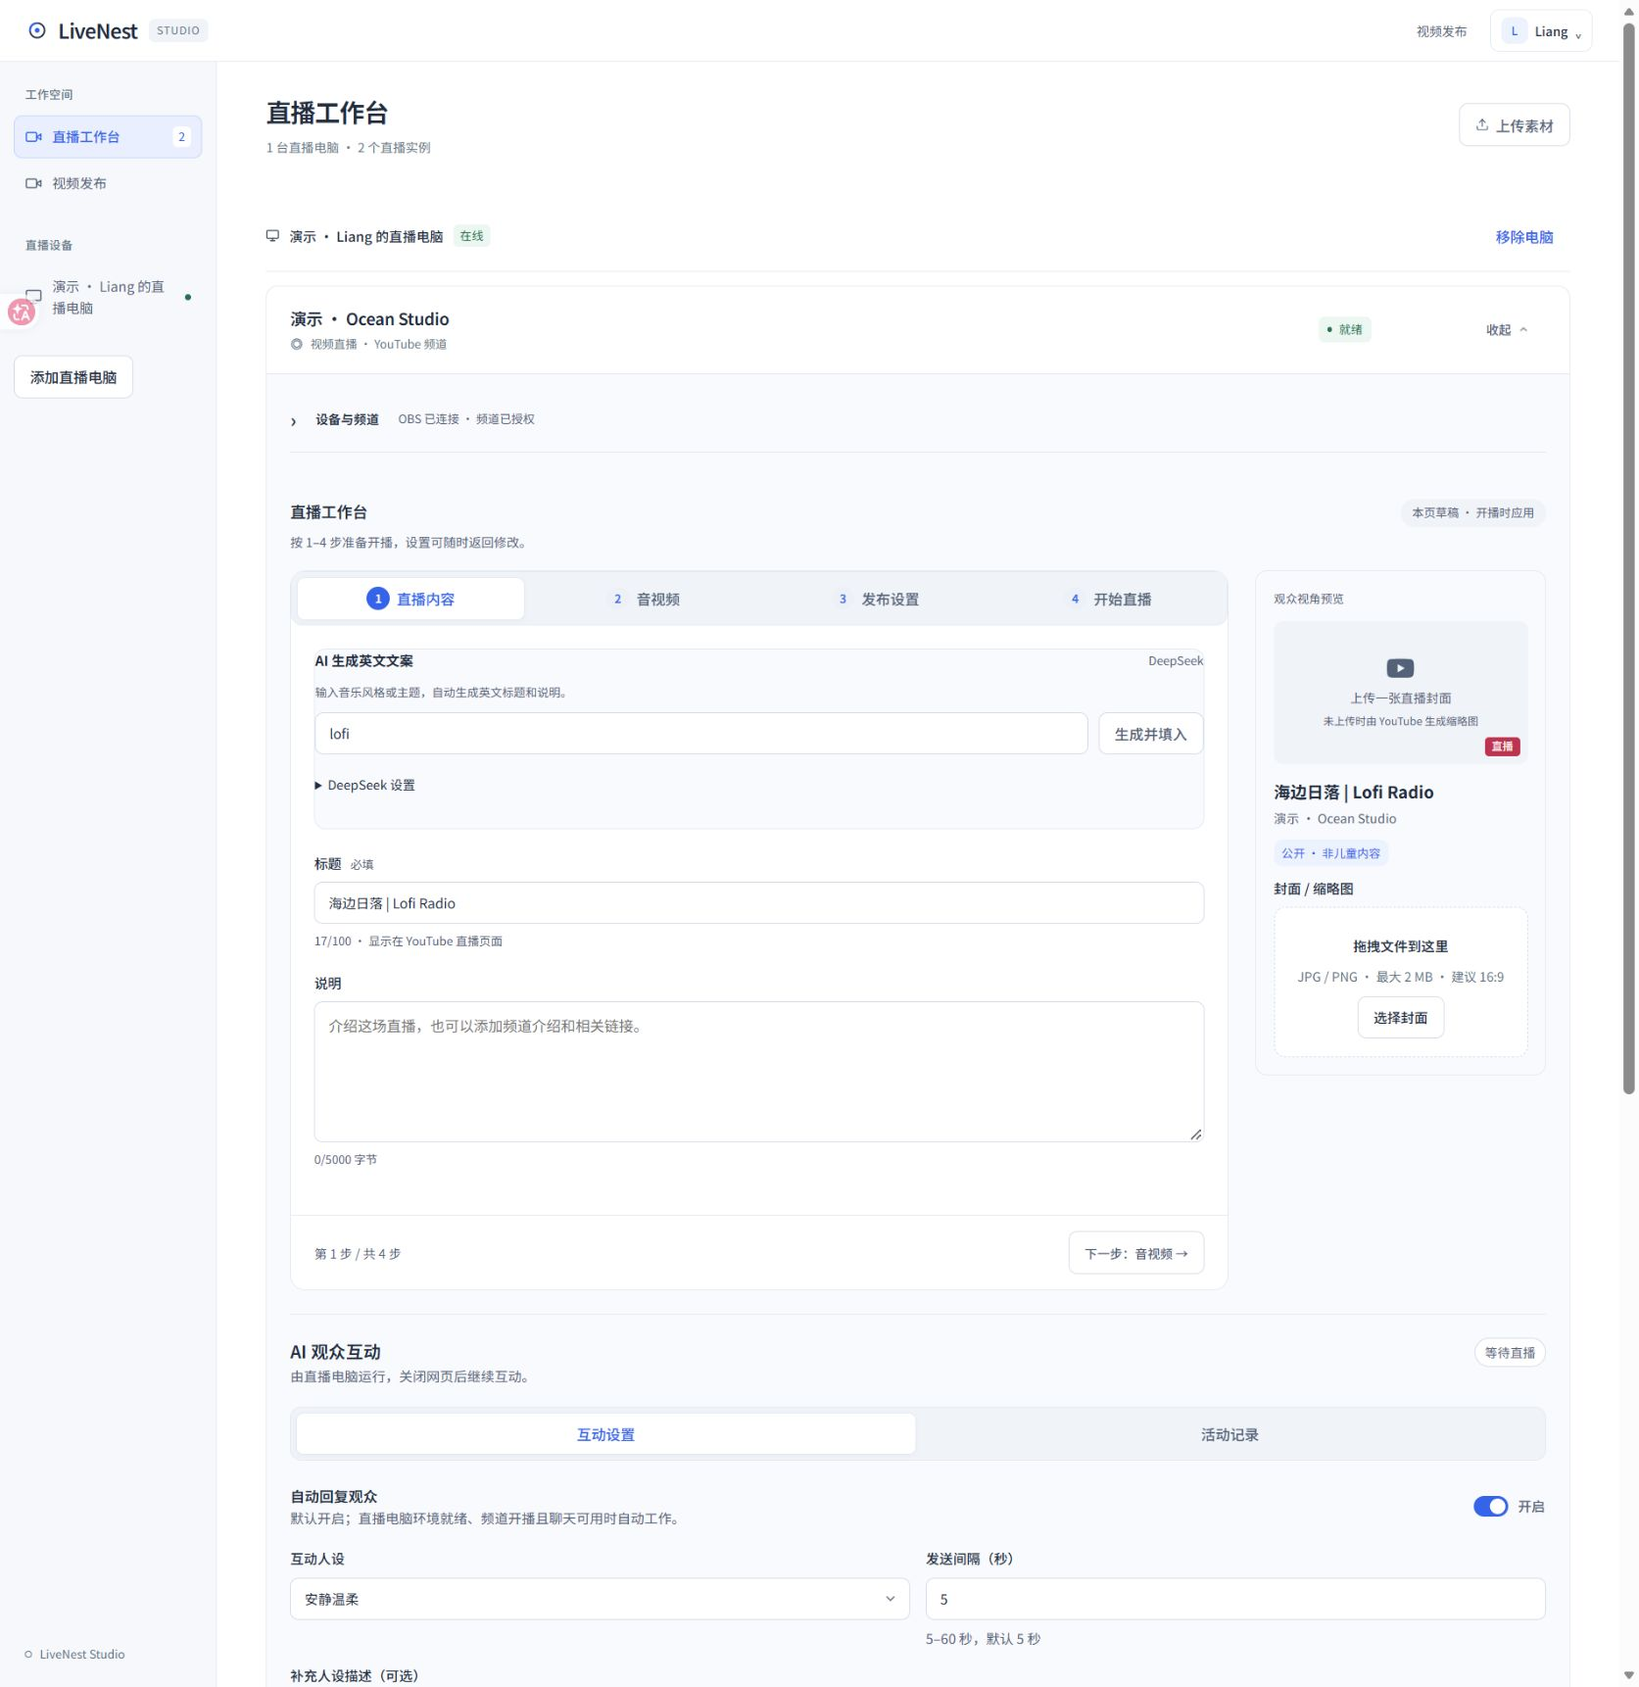
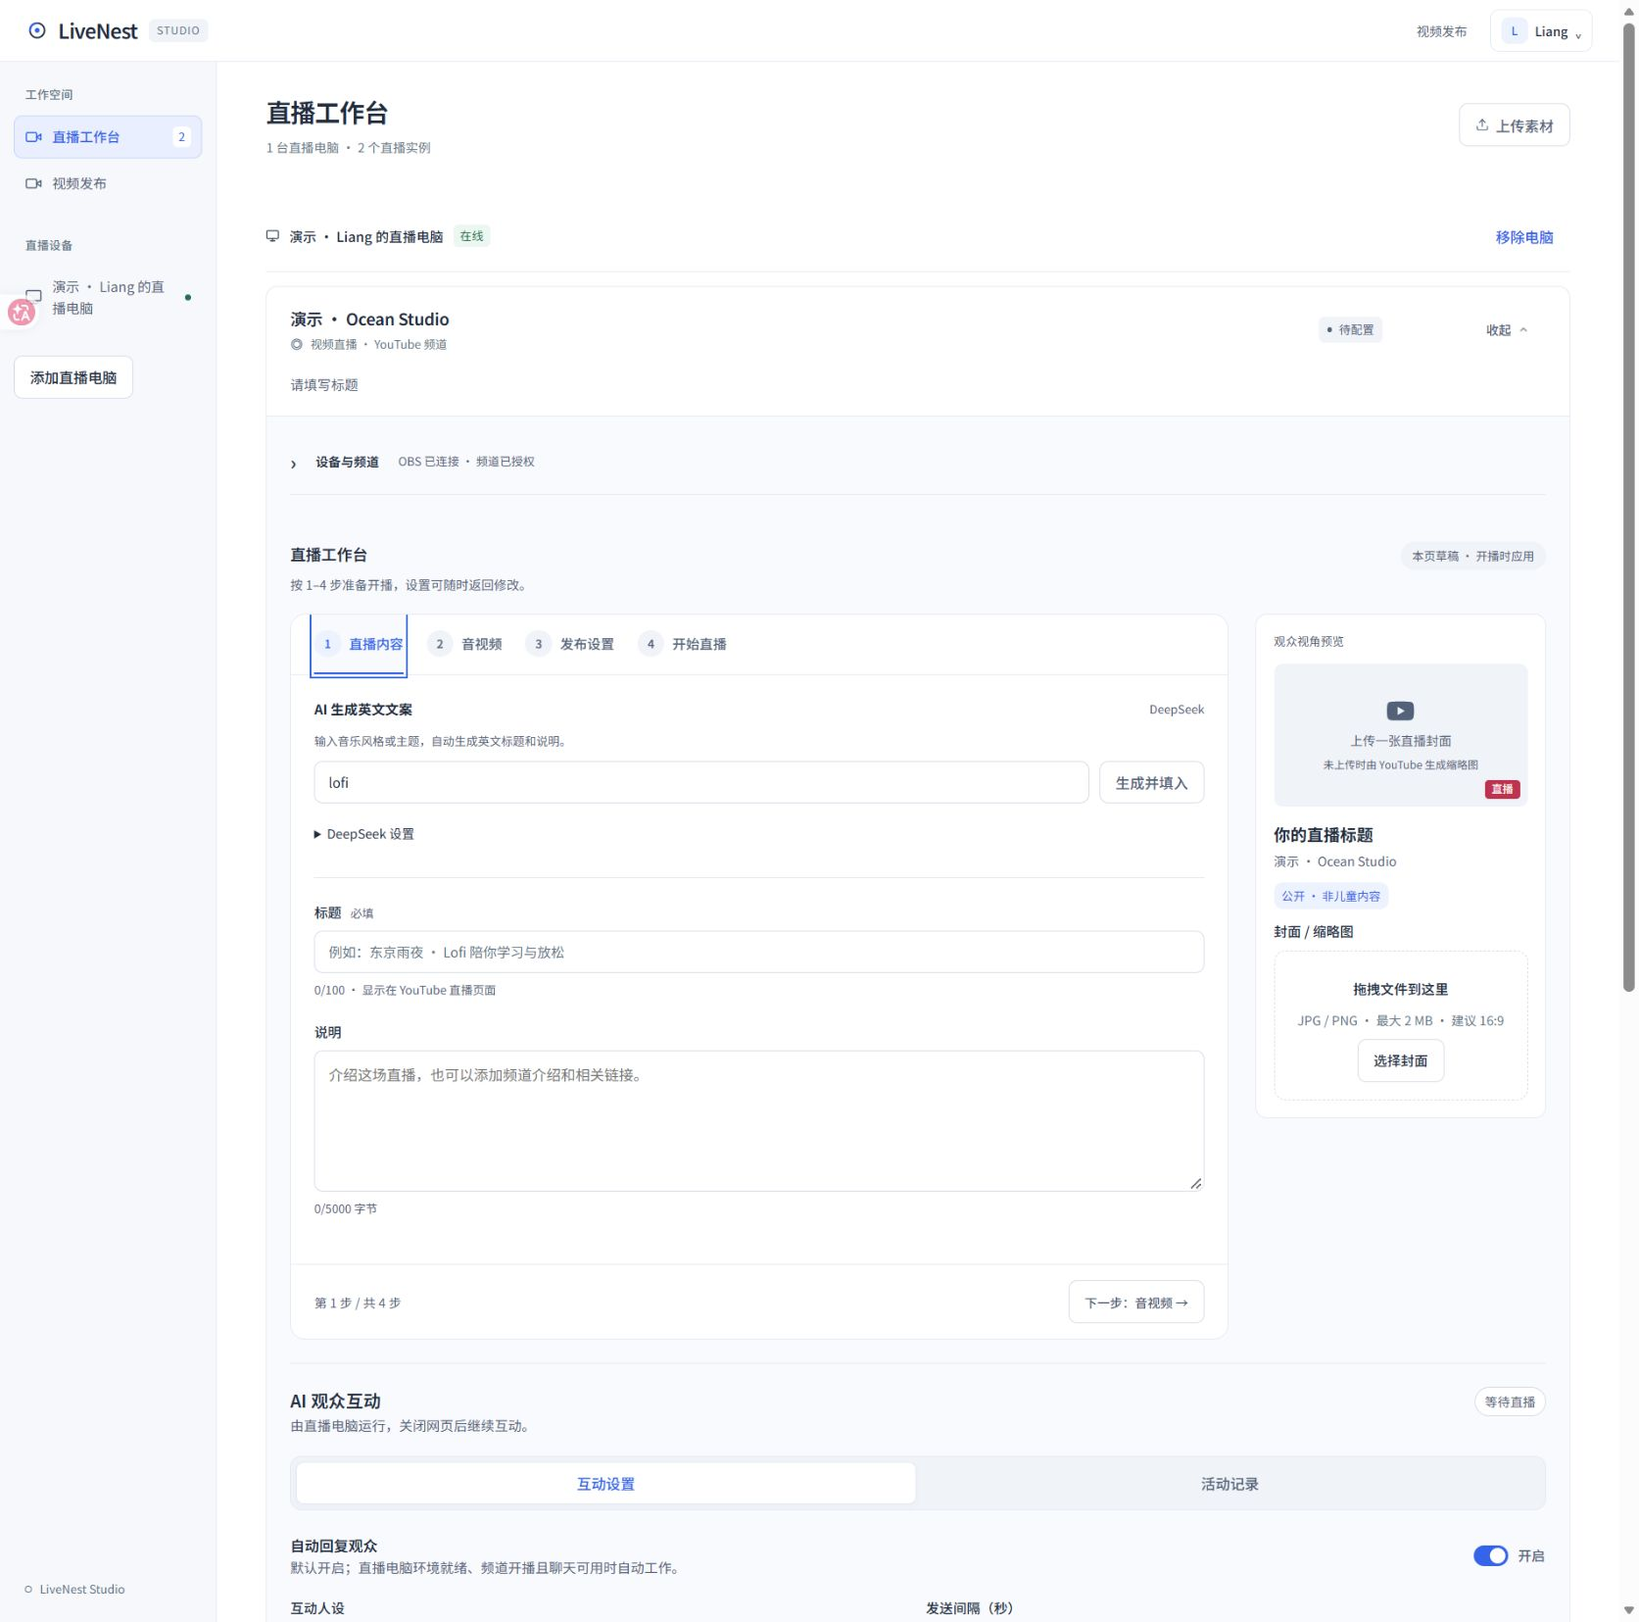
fix(workspace)：修复重复边框窄屏溢出和配对草稿丢失

diff --git a/src/app/workspace-refresh.css b/src/app/workspace-refresh.css
@@ -59,18 +59,27 @@ select { appearance: none; padding-right: 36px; background-image: url("data:imag
 .broadcast-section-heading p { font-size: 13px; }
 .broadcast-editor-grid { gap: 28px; grid-template-columns: minmax(0,1fr) 300px; }
 .broadcast-edit-column { min-width: 0; }
+/* 编辑卡片只有一层外框；页签沿用下划线分隔，不叠加独立圆角容器。 */
+.broadcast-settings .ui-tabs-list { gap: 24px; padding: 0 24px; border: 0; border-bottom: 1px solid var(--border-subtle); border-radius: 0; background: transparent; }
+.broadcast-settings .ui-tabs-trigger { flex: 0 1 auto; gap: 8px; min-height: 60px; padding: 16px 0; border: 0; border-bottom: 2px solid transparent; border-radius: 0; background: transparent; box-shadow: none; white-space: nowrap; font-size: 14px; }
+.broadcast-settings .ui-tabs-trigger[data-state="active"] { border-bottom-color: var(--accent-primary); color: var(--accent-primary); }
+.broadcast-settings .ui-tabs-trigger .step-number { width: 28px; height: 28px; background: var(--bg-subtle); color: var(--text-secondary); }
+.broadcast-settings .ui-tabs-trigger[data-state="active"] .step-number { background: var(--accent-subtle); color: var(--accent-primary); }
 .broadcast-settings .studio-panel { padding-top: 24px; }
 .broadcast-settings .studio-step-footer { margin-top: 24px; padding-top: 16px; }
-.studio-rail .broadcast-preview { border-radius: 12px; background: var(--surface-hover); padding: 18px; border-color: var(--border-subtle); }
+.studio-rail .broadcast-preview { border-radius: 12px; background: var(--surface-base); padding: 18px; border-color: var(--border-subtle); }
 .thumbnail-preview { border-radius: 9px; }
 .thumbnail-placeholder { background: var(--bg-subtle); }
 .studio-rail .ui-dropzone { padding: 18px 12px; background: var(--surface-base); }
 .studio-rail .ui-dropzone-icon { display: none; }
 .studio-panel .studio-start { margin-top: 0; }
+.broadcast-settings .broadcast-control-row { padding: 0; border: 0; border-radius: 0; }
+.broadcast-settings .broadcast-actions { flex-direction: row; flex-wrap: wrap; }
+.broadcast-settings .broadcast-actions button { flex: 0 1 auto; min-width: 160px; }
 .studio-connections { border-bottom: 1px solid var(--border-subtle); margin-bottom: 24px; }
 .studio-connections > summary { font-size: 13px; }
-.broadcast-ai { border-radius: 12px; background: var(--surface-hover); border: 1px solid var(--border-subtle); }
-.broadcast-ai textarea { background: var(--surface-base); }
+/* AI 与标题共用面板留白，只保留原有底部分隔线，避免无内边距的嵌套卡片。 */
+.broadcast-ai { border-radius: 0; background: transparent; border: 0; border-bottom: 1px solid var(--border-subtle); }
 .media-dock { margin-bottom: 24px; }
 .dock-content { background: var(--surface-base); border: 1px solid var(--border-subtle); border-radius: 14px; padding: 24px; animation: none; margin: 0 0 24px; box-shadow: 0 8px 24px #26365006; }
 .upload-progress { padding: 18px; border: 1px solid var(--border-subtle); border-radius: 10px; background: var(--surface-hover); }
@@ -115,8 +124,13 @@ select { appearance: none; padding-right: 36px; background-image: url("data:imag
 .main-wrapper .setup-step { border-radius: 10px; }
 @media (min-width: 761px) { .main-wrapper { animation: ui-enter 220ms ease-out; } }
 @media (max-width: 1200px) { .broadcast-editor-grid { grid-template-columns: minmax(0,1fr); } .studio-rail { display: grid; grid-template-columns: minmax(0,1fr); max-width: 600px; } }
+/* 侧栏仍可见的平板宽度下，编辑列也可能不足 500px，四步入口提前换成等宽布局。 */
+@media (max-width: 1000px) {
+  .broadcast-settings .ui-tabs-list { display: grid; grid-template-columns: repeat(4, minmax(0, 1fr)); gap: 4px; padding-inline: 14px; }
+  .broadcast-settings .ui-tabs-trigger { flex-direction: column; gap: 6px; padding: 12px 0; font-size: 12px; white-space: normal; }
+}
 @media (max-width: 760px) {
-  .app-header { height: 60px; } .header-container { padding-inline: 16px; gap: 8px; } .brand-name { font-size: 19px; } .brand-tag { display: none; } .header-actions { gap: 4px; } .header-actions > a { font-size: 12px; padding: 8px; }
+  .app-header { height: auto; min-height: 60px; } .header-container { height: auto; min-height: 60px; padding-inline: 16px; gap: 8px; } .brand-name { font-size: 19px; } .brand-tag { display: none; } .header-actions { gap: 4px; } .header-actions > a { font-size: 12px; padding: 8px; }
   .workspace-shell { display: block; } .workspace-mobile-navigation { display: block; padding: 12px 16px 0; background: var(--surface-base); } .sidebar-mobile-trigger { min-height: 44px; font-size: 13px; }
   .ui-dialog .workspace-sidebar-content { padding: 0; min-height: 60vh; } .ui-dialog .sidebar-link { width: 100%; justify-content: start; }
   .main-wrapper { padding: 20px 16px 40px; } .workspace-heading h1, .dock-heading h1 { font-size: 23px; } .workspace-subtitle { font-size: 12px; }
@@ -124,6 +138,8 @@ select { appearance: none; padding-right: 36px; background-image: url("data:imag
   .broadcast-editor-grid { gap: 24px; } .broadcast-section-heading { gap: 8px; } .broadcast-settings .studio-step-footer { align-items: start; flex-wrap: wrap; gap: 12px; }
   .device-offline-alert { padding: 12px; } .publishing-workspace .publishing-target { padding: 16px; } .publishing-shell .publishing-inbox { padding: 18px; }
   .publishing-shell .publishing-days label { padding-inline: 9px; } .main-wrapper table :is(th, td) { padding: 12px; }
+  .main-wrapper .settings-actions { flex-wrap: wrap; flex-shrink: 1; min-width: 0; max-width: 100%; }
+  .desktop-header-actions { flex-wrap: wrap; gap: 8px; min-width: 0; max-width: 100%; }
   input:not([type="checkbox"]):not([type="radio"]):not([type="file"]), select, textarea { font-size: 16px; }
 }
 @media (prefers-reduced-motion: reduce) { *, *::before, *::after { animation-duration: .01ms !important; animation-iteration-count: 1 !important; transition-duration: .01ms !important; scroll-behavior: auto !important; } }

diff --git a/src/app/device-pairing.tsx b/src/app/device-pairing.tsx
@@ -4,8 +4,8 @@ import { useEffect, useRef, useState } from "react";
 import Link from "next/link";
 import { api } from "./client-request";
 import type { AgentDescriptor } from "@/shared/remote";
-/** 成员创建或恢复邀请；已移除电脑沿用原身份，不能被另一台电脑接管。 */
-export default function DevicePairing({ agents }: { agents: AgentDescriptor[] }) {
+/** 配对状态由工作台持有，抽屉关闭或布局切换不会丢失草稿、邀请或在途操作。 */
+export function useDevicePairing(agents: AgentDescriptor[]) {
   const [loadError,setLoadError]=useState("");const [listReady,setListReady]=useState(false);const [loadKey,setLoadKey]=useState(0);
   const [customers,setCustomers]=useState<string[]>();const [owner,setOwner]=useState("");
   useEffect(()=>{let active=true;void api<{user:{role:string}}>("/api/session").then(async s=>{if(s.user.role==="admin"){const d=await api<{customers:{username:string}[]}>("/api/admin/overview");if(active)setCustomers(d.customers.map(c=>c.username));}if(active){setListReady(true);setLoadError("");}}).catch(()=>{if(active){setListReady(false);setLoadError("客户与设备归属暂不可读取，请重新读取后生成配对码。");}});return()=>{active=false;};},[loadKey]);
@@ -23,8 +23,13 @@ export default function DevicePairing({ agents }: { agents: AgentDescriptor[] })
   }
   /** 完成上一台后才清空表单，失败或收起面板不另建电脑。 */
   function toggle() { if (!open && paired) { setAgentId(undefined); setName(""); setInvitation(""); setMessage(""); } setOpen(!open); }
+  return { agents, open, setOpen, name, setName, invitation, agentId, setAgentId, busy, message, setMessage, loadError, listReady, setLoadKey, customers, owner, setOwner, selected, paired, recoverable, create, toggle };
+}
+/** 配对视图可随导航抽屉卸载；状态留在上层工作台，邀请不写本地存储。 */
+export default function DevicePairing({ model }: { model: ReturnType<typeof useDevicePairing> }) {
+  const { agents, open, setOpen, name, setName, invitation, agentId, setAgentId, busy, message, setMessage, loadError, listReady, setLoadKey, customers, owner, setOwner, selected, paired, recoverable, create, toggle } = model;
   return <div className="device-pairing"><button onClick={toggle} aria-expanded={open}>添加直播电脑</button>{open && <section className="pairing-panel" aria-label="添加直播电脑">{loadError && <p role="alert">{loadError}<button onClick={()=>setLoadKey(k=>k+1)}>重新读取客户</button></p>}
-    {paired ? <><p role="status">{selected.online ? "连接成功" : "配对成功，等待电脑上线"}：{selected.name}</p><a href={"#device-" + selected.id} onClick={() => setOpen(false)}>查看电脑</a></> : <>
+    {paired && selected ? <><p role="status">{selected.online ? "连接成功" : "配对成功，等待电脑上线"}：{selected.name}</p><a href={"#device-" + selected.id} onClick={() => setOpen(false)}>查看电脑</a></> : <>
       {!invitation && <>{customers && <label className="field-group">所属客户<select value={selected?.owner || owner} disabled={!!selected?.owner} onChange={e=>setOwner(e.target.value)}><option value="">选择客户</option>{customers.map(c=><option key={c}>{c}</option>)}</select></label>}
         <label className="field-group">电脑名称<input disabled={!listReady || busy || !!agentId} value={name} maxLength={80} onChange={e => setName(e.target.value)} placeholder="给这台电脑起个名字" /></label>
         {!!recoverable.length && <details><summary>继续配对尚未连接的电脑</summary><label className="field-group">选择原电脑<select disabled={!listReady || busy} value={agentId || ""} onChange={e => { const id = e.target.value; setAgentId(id || undefined); setName(agents.find(a => a.id === id)?.name || ""); setMessage(""); }}><option value="">添加新电脑</option>{recoverable.map(a => <option key={a.id} value={a.id}>{a.name} · {a.id.slice(-6)}{a.revoked ? "（已移除）" : "（待配对）"}</option>)}</select></label></details>}

diff --git a/src/app/console.tsx b/src/app/console.tsx
@@ -8,7 +8,7 @@ import UploadPanel, { type UploadRequest } from "./upload-panel";
 import { targetKey, type AgentDescriptor } from "@/shared/remote";
 import { api } from "./client-request";
 import InstanceConsole from "./instance-console";
-import DevicePairing from "./device-pairing";
+import DevicePairing, { useDevicePairing } from "./device-pairing";
 import DeviceRemove from "./device-remove";
 import WorkspaceSidebar from "./components/workspace-sidebar";
 import Link from "next/link";
@@ -34,6 +34,7 @@ export default function Console() {
   }, []);
   const [instances, setInstances] = useState<InstanceDescriptor[]>([]);
   const [agents, setAgents] = useState<AgentDescriptor[] | undefined>();
+  const pairing = useDevicePairing(agents || []);
   const [loaded, setLoaded] = useState(false);
   const [error, setError] = useState("");
   const [notice, setNotice] = useState("");
@@ -88,7 +89,7 @@ export default function Console() {
           {loaded && !devices?.length && agents && <p className="sidebar-hint">尚未接入设备</p>}
           {!loaded && <p className="sidebar-hint">{error ? "设备列表暂不可用" : "正在读取设备…"}</p>}
         </nav>
-        {agents && <DevicePairing agents={agents} />}
+        {agents && <DevicePairing model={pairing} />}
       </WorkspaceSidebar>
 
       <main className="main-wrapper" id="workspace" tabIndex={-1}>

diff --git a/docs/前端回归检查.md b/docs/前端回归检查.md
@@ -1,0 +1,41 @@
+<!-- 文件用途：记录组件改造后的可复现界面缺陷、修复和实际浏览器检查范围。 -->
+# 前端回归检查（2026-10-10）
+
+检查使用本地生产构建与隔离演示数据。依据用户提供的 P1 / P2 对照，首先恢复直播编辑面板的边框与内容层级，再检查相邻页面。自动化测试通过不代表视觉验收通过。
+
+## 已复现并修复
+
+| 问题 | 修复 | 复测依据 |
+| --- | --- | --- |
+| AI 区块新增圆角框但无内边距，文字贴边；页签外框叠在编辑卡片上 | 单层编辑外框、下划线页签；AI 只保留底部分隔线，内容共用 24px 面板留白 | 实际桌面截图；AI 背景透明，左右边框为 0 |
+| 开播控件移入第 4 步后仍携带原侧栏卡片外框 | 去掉内框和重复 padding；操作按钮按内容排列 | 第 4 步内框计算边宽为 0，面板 padding 为 24px |
+| 窄屏顶栏固定 60px，高度不足以容纳换行；客户端顶栏强制不换行 | 顶栏自动高度；客户端按钮允许换行 | 320px 页面，Web 顶栏底部 103px、操作区底部 92px，导航从 103px 开始 |
+| 768px 时侧栏仍可见，第四个直播页签被面板裁切 | 1000px 以下提前采用四列等宽页签 | 768px 页面，页签最右边界 684px，小于容器 698px |
+| 客户端设置页文件操作区不能收缩，按钮撑出页面 | 允许操作组收缩、换行并限制最大宽度 | 320px 下三按钮全部在设置页内 |
+| 关闭手机导航或切换屏幕宽度会卸载配对组件，电脑名称草稿丢失 | 配对 Hook 由工作台持有，视图可卸载；邀请仍只在内存中 | 输入“检查用草稿”，关闭重开、320px 切到 768px 均保留；未生成配对码 |
+
+## 检查矩阵
+
+| 区域 | 实际检查 | 结果与边界 |
+| --- | --- | --- |
+| 直播内容 | 单层边框、标题/说明对齐、封面区、四步切换 | 修复后的桌面截图已替换；保留原有单文件上传业务 |
+| 音视频 / 发布设置 / 开始直播 | 三个面板的最终渲染、键盘右方向键、控件布局 | 方向键移动焦点并选中音视频；未点击开始/结束直播 |
+| 上传面板 | 展开/收起、320px 单列目标选择与拖拽区 | 无页面横向溢出；未传输真实文件 |
+| AI 互动 | 设置 / 活动记录切换、计数与回复记录布局 | 演示记录可见；未发起真实聊天 |
+| 发布向导 | 素材列表、时间设置、月份计划、配置编辑 | 桌面和 320px 表单布局检查；未确认发布 |
+| 排期抽屉 | 打开、关闭、编辑内容与内部滚动宽度 | 320px 下抽屉 clientWidth 与 scrollWidth 都为 294px |
+| 我的发布 | 批次详情、六阶段状态、进度、删除确认与取消 | 确认框内容及保留批次可用；未删除批次 |
+| 管理员 | 设备 / 客户页签、表格、账号输入 | 320px 表格局部滚动，整页不撑宽；账号输入跨页签保留，未创建用户 |
+| 客户端 | 设备配置、设置、导航抽屉、文件动作组 | 浏览器静态桥接预览检查；不等于 Electron 安装包实机验收 |
+| 登录 / 下载 | 表单、主入口、320px 页面宽度 | 页面 scrollWidth 为 300px，不超过 320px 视口；未登录或下载 |
+
+检查宽度包含桌面默认宽度、1024px、768px、391px 和 320px（CSS 像素）；并非每个页面在每种宽度都逐一覆盖。浏览器截图在动画结束后读取；焦点描边属于键盘交互反馈，不作为装饰边框移除。
+
+## 验证与交付
+
+- 配对状态改动后，`npm run verify` 通过：99 个测试文件、946 项测试、8 项部署检查、类型检查、Lint、Web 与 Agent 构建。
+- 最后的客户端顶栏 CSS 修正后，重新构建 Web 和客户端渲染器。
+- 更新同一个 PR #34；保持 localhost 演示入口；未合并、部署或发布安装包。
+- 真实 Windows 安装包、OBS、YouTube OAuth、上传、直播与聊天未在本次执行。没有把模拟页面检查描述为真实集成通过。
+
+截图：[修复后的工作台](screenshots/ui-refresh-20261010/workspace.jpg)、[320px 客户端设置](screenshots/ui-refresh-20261010/desktop-mobile.jpg)。组件来源和完整改造范围见 [UI组件来源](UI组件来源.md)。

diff --git a/docs/UI组件来源.md b/docs/UI组件来源.md
@@ -43,6 +43,7 @@ shadcn 适配源码：`src/app/components/ui/primitives.tsx`。上游路径为 `
 
 ## 动效与可访问性
 
+- 直播编辑面板保留单层外框、下划线页签和 AI 区块底部分隔线；AI 内容不再嵌套无内边距的圆角卡片，标题与输入对齐。
 - 180–240 ms 的页签进入、折叠高度、弹层和侧栏滑入；进度只随报告变化。
 - 关闭的实例内容保持挂载但设置 inert；不会让键盘进入不可见按钮。
 - 弹层支持 Escape、外部点击与焦点返回；提交期间锁定关闭动作。
@@ -65,6 +66,7 @@ npm run preview:local
 
 ## 本次验收记录（2026-10-10）
 
+- 用户对照截图后的逐页复查、六处修复及边界见 [前端回归检查](前端回归检查.md)。工作台截图已更新为修复后的单层边框版本。
 - `npm run verify`：类型检查、Lint、99 个测试文件 / 946 项测试、8 项部署检查、Web 与 Agent 构建全部通过。
 - `npm run desktop:renderer`：客户端渲染器类型检查与静态导出通过；最终频道摘要文案及窄屏导航样式调整后重新完成 Web 构建。
 - Edge 本地生产构建：四步切换、实例折叠后标题草稿保留；排期抽屉 Escape 关闭后焦点返回原事件；保存演示草稿后日历标题更新。
